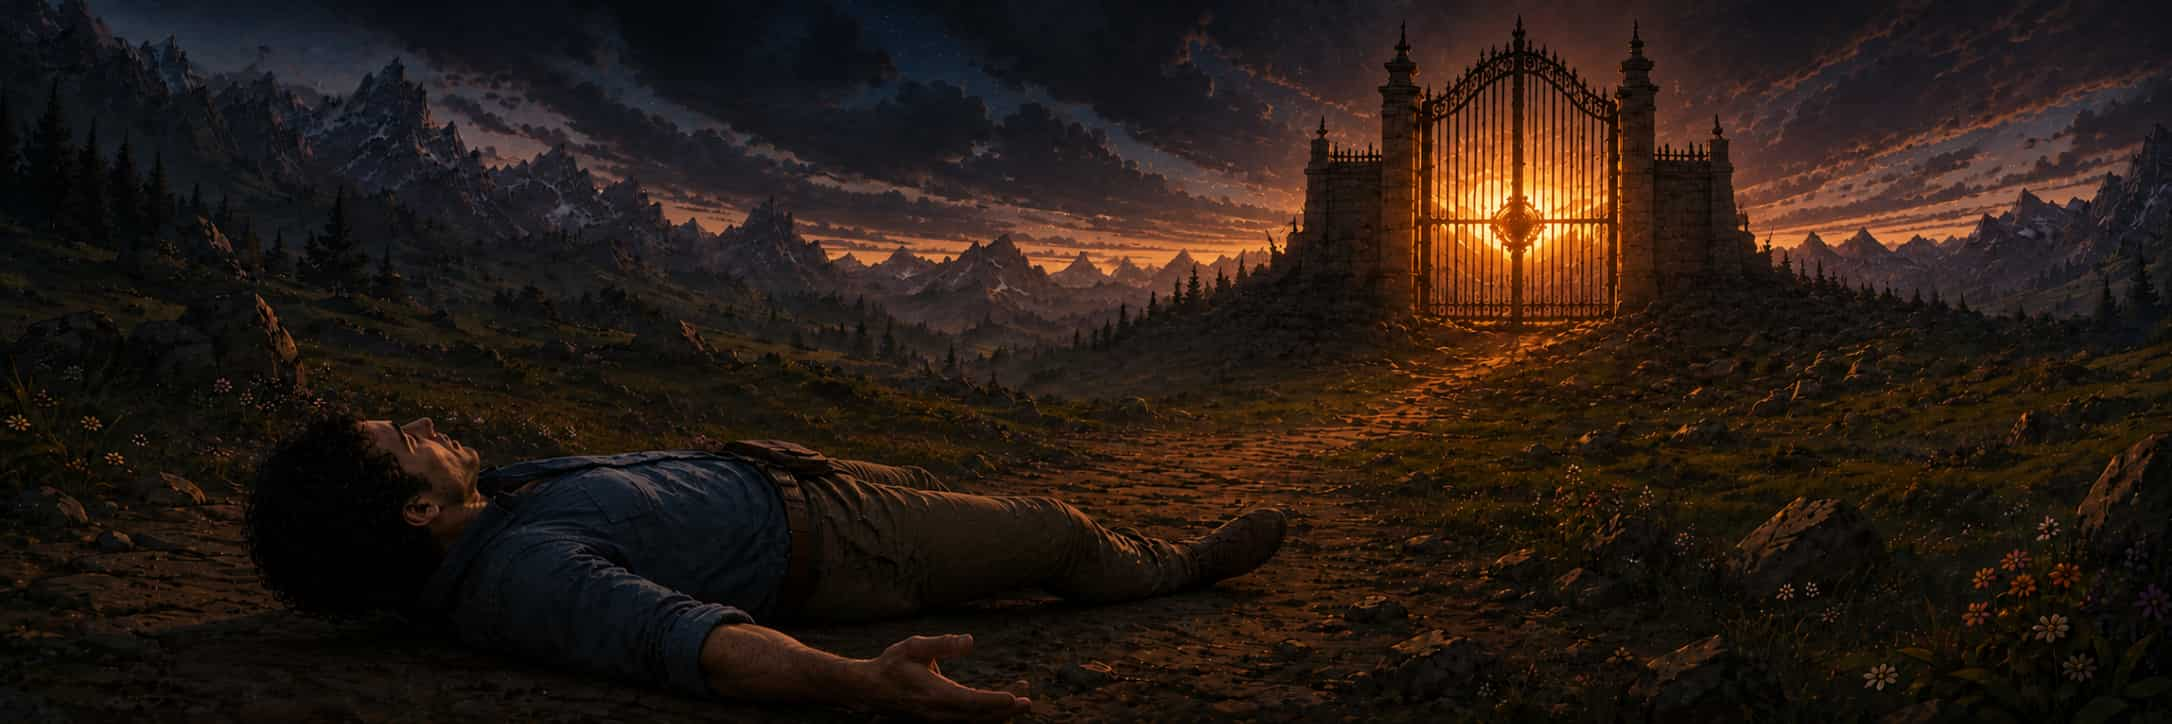
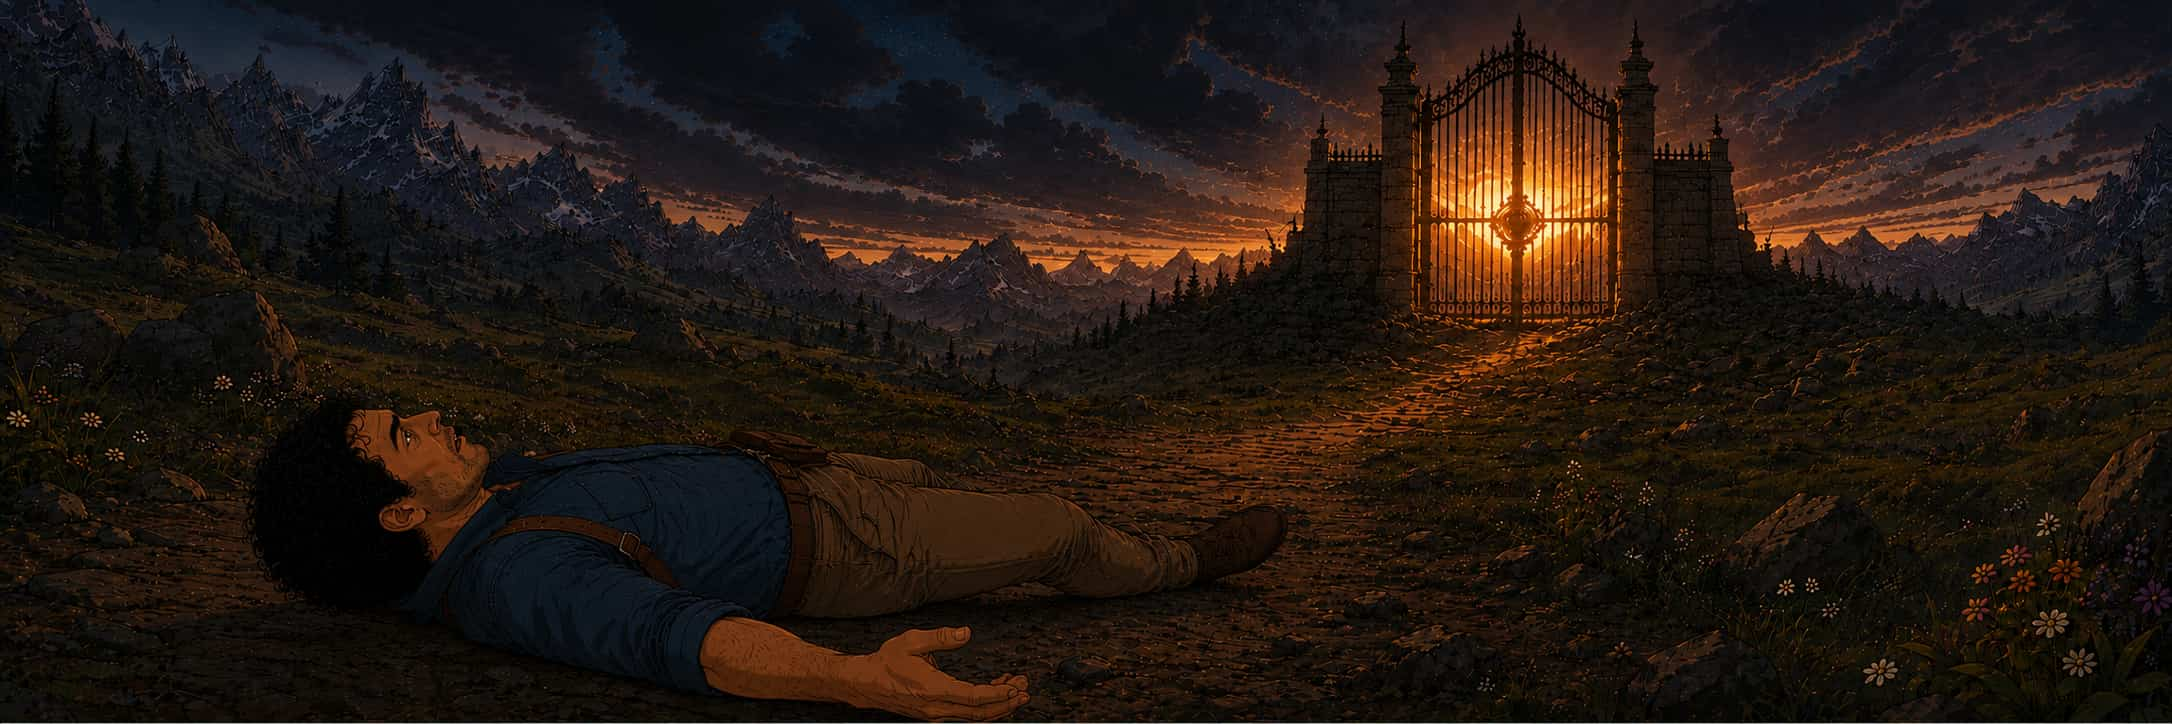
added a TOOON of images for ending 3

diff --git a/JavaScript/data/storyData.js b/JavaScript/data/storyData.js
@@ -1671,11 +1671,11 @@ export const data = [
             { image: 'images/Visuals/JohnIsAlone.png', speaker: "Narrator", text: "The gate is now permanently shut. Low-Budget Man had already advanced through." },
             { image: 'images/Visuals/JohnIsAlone.png', speaker: "John's Internal Monologue", text: "Well, that's a shame." },
             // John raises his hands up and looks at them - they're animated. He can move them freely.
-            { image: '', speaker: "John's Internal Monologue", text: "I look kinda funny. No wonder I've been feeling really loose since I woke up." },
-            { image: '', speaker: "John's Internal Monologue", text: "Have I been assimilated into this Layer? Maybe that makes me a permanent resident." },
-            { image: '', speaker: "John's Internal Monologue", text: "I mean, I really wouldn't mind living here. What am I gonna tell the people who were expecting me to get by, though..?" },
-            { image: '', speaker: "John's Internal Monologue", text: "Maybe I would've been more prepared if I had a strong enough weapon to fight against him." },
-            { image: '', speaker: "John's Internal Monologue", text: "Guess it doesn't matter now. I should get walking soon..." },
+            { image: 'images/Visuals/JohnHandAnew.png', speaker: "John's Internal Monologue", text: "I look kinda funny. No wonder I've been feeling really loose since I woke up." },
+            { image: 'images/Visuals/JohnHandAnew.png', speaker: "John's Internal Monologue", text: "Have I been assimilated into this Layer? Maybe that makes me a permanent resident." },
+            { image: 'images/Visuals/JohnHandAnew.png', speaker: "John's Internal Monologue", text: "I mean, I really wouldn't mind living here. What am I gonna tell the people who were expecting me to get by, though..?" },
+            { image: 'images/Visuals/JohnHandAnew.png', speaker: "John's Internal Monologue", text: "Maybe I would've been more prepared if I had a strong enough weapon to fight against him." },
+            { image: 'images/Visuals/JohnHandAnew.png', speaker: "John's Internal Monologue", text: "Guess it doesn't matter now. I should get walking soon..." },
             { endGame: "Ending2" },
         ]
     },
@@ -1683,23 +1683,21 @@ export const data = [
     {
         id: "Ending-3-Pt1",
         scenes: [
-            // An image of the good-luck charm shattering flashes by.
             { image: 'images/Visuals/BLACK-SCREEN.png', speaker: "Narrator", text: "Something in John's pocket shatters." },
-            // Black screen
-            { image: '', speaker: "Narrator", text: "..." },
+            { image: 'images/Visuals/BLACK-SCREEN.png', speaker: "Narrator", text: "..." },
             // Transition to Low-Budget Man's face with John's body behind him
-            { image: '', speaker: "Low-Budget Man", text: "..." },
+            { image: 'images/Visuals/Endings/LowBudgetWins.jpg', speaker: "Low-Budget Man", text: "..." },
             // He covers his face with his helmet buy once more and begins walking to the gate.
-            { image: '', speaker: "Low-Budget Man", text: "..." },
+            { image: 'images/Visuals/Endings/LowBudgetBeginsWalking.jpg', speaker: "Low-Budget Man", text: "..." },
             // Have a perspective that is facing Low-Budget Man's back, as Low-Budget Man faces the gate.
-            { image: '', speaker: "Low-Budget Man", text: "..." },
+            { image: 'images/Visuals/Endings/LowBudgetAtGate.jpg', speaker: "Low-Budget Man", text: "..." },
             // Then, the shadow of a man blocks the screen.
-            { image: '', speaker: "John", text: "..." },
+            { image: 'images/Visuals/Endings/ShadowArises.jpg', speaker: "John", text: "..." },
             // Pan back to the original perspective, but this time John is standing up - he's gone beyond his stock image form. He's animated..!
-            { image: '', speaker: "John", text: "Hey man." },
-            { image: '', speaker: "Low-Budget Man", text: "Huh?" },
+            { image: 'images/Visuals/Endings/JohnConfrontsAnew.jpg', speaker: "John", text: "Hey man." },
+            { image: 'images/Visuals/Endings/JohnConfrontsAnew.jpg', speaker: "Low-Budget Man", text: "Huh?" },
             {
-                image: '',
+                image: 'images/Visuals/Endings/JohnConfrontsAnew.jpg',
                 speaker: "John",
                 text: " ",
                 options: [
@@ -1713,42 +1711,40 @@ export const data = [
         id: "Ending-3-Pt2",
         scenes: [
             // John swipes Low-Budget man with the eraser, striking through the armor and splitting him in half
-            { image: '', speaker: "Low-Budget Man", text: "..!" },
-            { image: '', speaker: "Low-Budget Man", text: "What?!" },
+            { image: 'images/Visuals/Endings/BrandishTheEraser.jpg', speaker: "Low-Budget Man", text: "AUGH!" },
+            { image: 'images/Visuals/Endings/BrandishTheEraser.jpg', speaker: "Low-Budget Man", text: "WHAT?!" },
             // Low-Budget Man's upper half falls to the ground, where John stands above you
-            { image: '', speaker: "Low-Budget Man", text: "How?! How did you survive?" },
-            { image: '', speaker: "John", text: "Dang. Guess my plot armor's stronger." },
+            { image: 'images/Visuals/Endings/JohnTowersOver.jpg', speaker: "Low-Budget Man", text: "How?! How did you survive?" },
+            { image: 'images/Visuals/Endings/JohnTowersOver.jpg', speaker: "John", text: "Dang. Guess my plot armor's stronger." },
             // Do you know those two panels with Gojo and Sukuna? 
-            { image: '', speaker: "Low-Budget Man", text: "This can't be..." },
+            { image: 'images/Visuals/Endings/JohnTowersOver.jpg', speaker: "Low-Budget Man", text: "This can't be..." },
             // You'll see the reference if you search up the two lines below (change Low-Budget Man to Gojo)
-            { image: '', speaker: "John", text: "You were magnificent, Low-Budget Man." },
-            { image: '', speaker: "John", text: "I won't forget you for as long as I live." },
+            { image: 'images/Visuals/Endings/JohnTowersOver.jpg', speaker: "John", text: "You were magnificent, Low-Budget Man." },
+            { image: 'images/Visuals/Endings/JohnTowersOver.jpg', speaker: "John", text: "I won't forget you for as long as I live." },
 
-            { image: '', speaker: "Low-Budget Man", text: "Don't..!" },
+            { image: 'images/Visuals/Endings/JohnTowersOver.jpg', speaker: "Low-Budget Man", text: "Don't..!" },
 
-            { image: '', speaker: "Narrator", text: "He's too late to object. John erases the rest of him with the Eraser." },
-            { image: '', speaker: "John", text: "Man, finally..!" },
+            { image: 'images/Visuals/Endings/JohnErasesLowBudget.jpg', speaker: "Narrator", text: "He's too late to object. John erases the rest of him with the Eraser." },
+            { image: 'images/Visuals/Endings/JohnTowersOver.jpg', speaker: "John", text: "Man, finally..!" },
             // 
-            { image: '', speaker: "Narrator", text: "John retrieves the key from his body." },
-            { image: '', speaker: "John", text: "Well, I have this. What do I do now?" },
-            { image: '', speaker: "John", text: "So it turns out I can't free the people here after all... but maybe I'll find a way when I step through this border." },
-            { image: '', speaker: "John", text: "Hope they don't think too much about it." },
+            { image: 'images/Visuals/Endings/JohnTowersOver.jpg', speaker: "Narrator", text: "John retrieves the key from his body." },
+            { image: 'images/Visuals/Endings/JohnTowersOver.jpg', speaker: "John", text: "Well, I have this. What do I do now?" },
+            { image: 'images/Visuals/Endings/JohnTowersOver.jpg', speaker: "John", text: "So it turns out I can't free the people here after all... but maybe I'll find a way when I step through this border." },
+            { image: 'images/Visuals/Endings/JohnTowersOver.jpg', speaker: "John", text: "Hope they don't think too much about it." },
             // He steps to the gate.
-            { image: '', speaker: "John", text: "Alright. Time to do this." },
+            { image: 'images/Visuals/Endings/JohnTowersOver.jpg', speaker: "John", text: "Alright. Time to do this." },
             // Inserts the key
-            { image: '', speaker: "John", text: "..." },
+            { image: 'images/Visuals/Endings/JohnTowersOver.jpg', speaker: "John", text: "..." },
             // The gate opens
-            { image: '', speaker: "John", text: "..." },
-            // Perspective of camera behind John, with the light shining from his figure.
-            { image: '', speaker: "John", text: "..." },
+            { image: 'images/Visuals/Endings/JohnTowersOver.jpg', speaker: "John", text: "..." },
             // He turns back.
-            { image: '', speaker: "John", text: "..." },
+            { image: 'images/Visuals/Endings/JohnTowersOver.jpg', speaker: "John", text: "..." },
             // Gives a thumbs up or a wave and smiles
-            { image: '', speaker: "John", text: "See you!" },
+            { image: 'images/Visuals/Endings/JohnTowersOver.jpg', speaker: "John", text: "See you!" },
             // Then he walks through, being enguled by the light...
-            { image: '', speaker: "Narrator", text: "..." },
+            { image: 'images/Visuals/Endings/JohnTowersOver.jpg', speaker: "Narrator", text: "..." },
             // And the gates shut.
-            { image: '', speaker: "Narrator", text: "..." },
+            { image: 'images/Visuals/Endings/JohnTowersOver.jpg', speaker: "Narrator", text: "..." },
             { endGame: "Ending3" },
         ]
     },